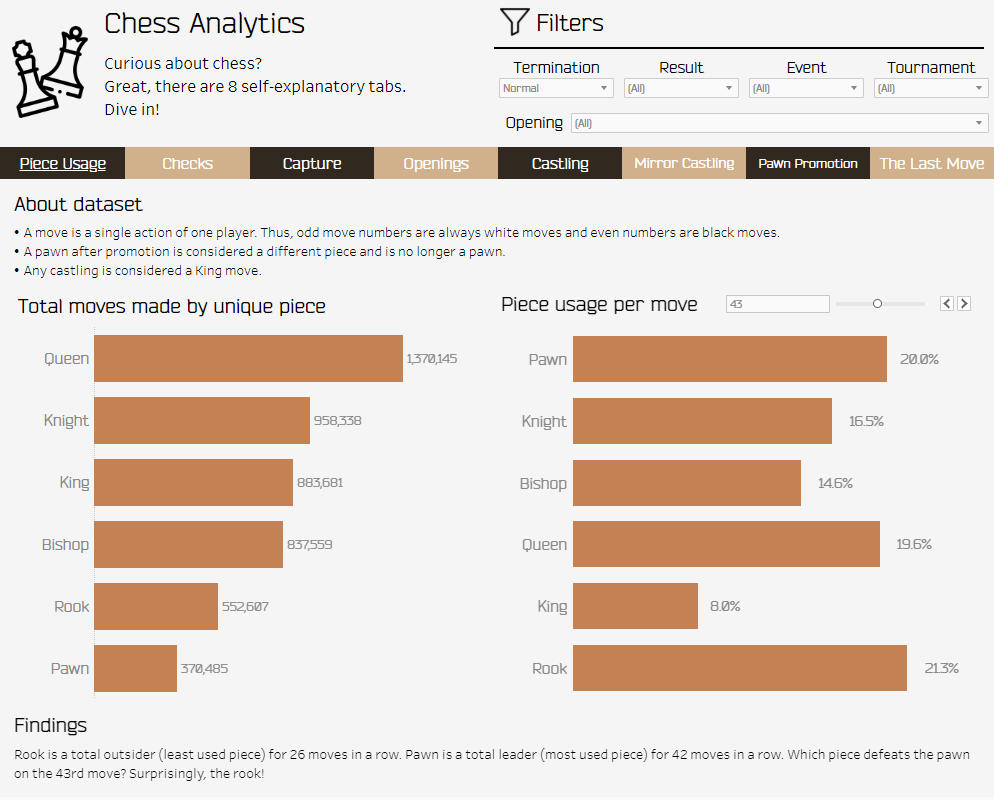
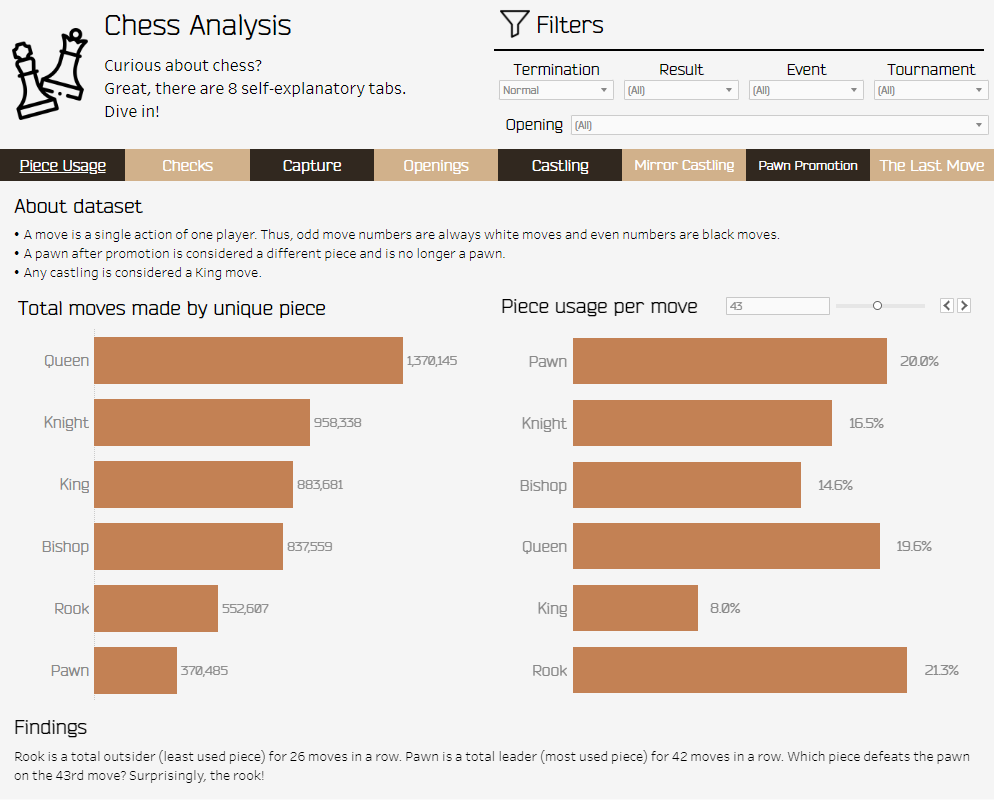
Rename the project

diff --git a/README.md b/README.md
@@ -1,5 +1,5 @@
 ## Project Description
-This project is an ETL pipeline with dbt tuning designed for complex chess analytics. The steps include:
+This project is an ETL pipeline with dbt tuning designed for complex chess analysis. The steps include:
 - Extract the chess game data from a csv file
 - Filter, clean, reshape the dataframe with pandas
 - Parse the [chess notation](https://en.wikipedia.org/wiki/Algebraic_notation_(chess)) field into a new dataframe
